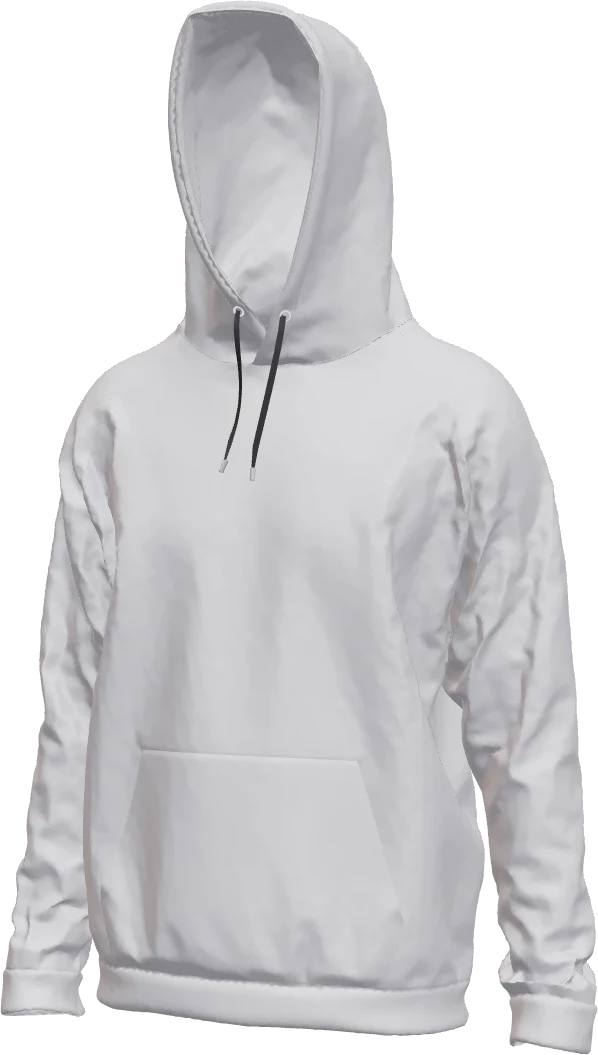
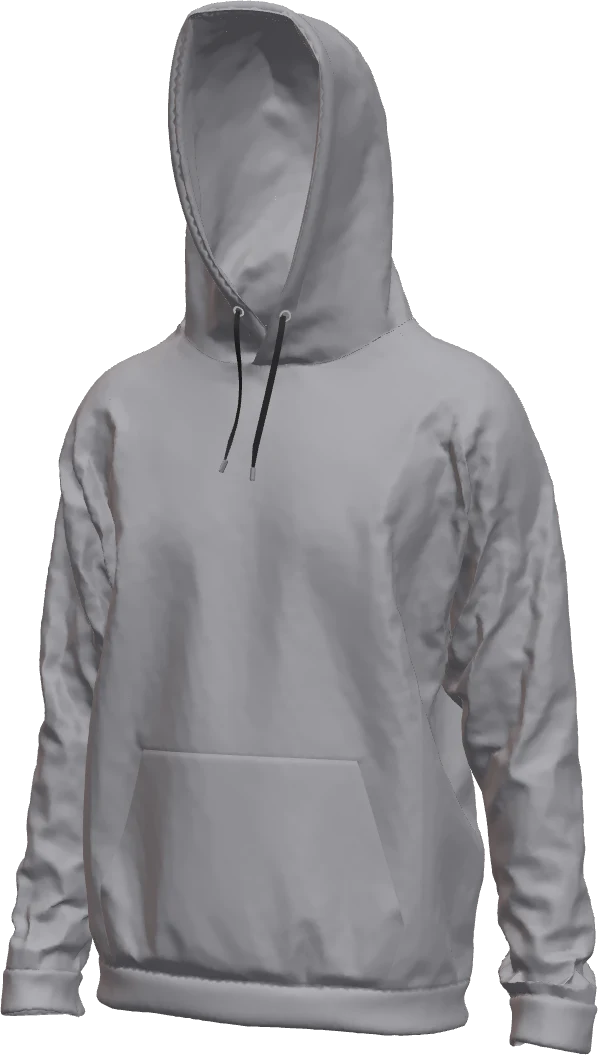
Colección para programadores (15 diseños) y colores reales del proveedor
- 15 diseños hechos con código (SVG → PNG en 3 versiones de tinta) y una sudadera por diseño en el catálogo y en el inicio
- El visor 3D estampa el diseño grande al frente y cambia la versión según el color
- Colores: negro, gris jaspe, rojo, café y azul marino; tono aparte para el 3D (la luz aclara la tela)
- Fotos de catálogo regeneradas

diff --git a/src/data/productos.ts b/src/data/productos.ts
@@ -1,3 +1,4 @@
+import { DISENOS } from "./disenos";
 /**
  * Catálogo. Precios en MXN. `oferta` es el precio con descuento (si no hay, se cobra `precio`).
  * `precio: null` = se cotiza por WhatsApp. Las fotos reales van en /public/productos; mientras no
@@ -9,7 +10,12 @@ export type Zona = "pecho" | "espalda" | "manga";
 export interface Color {
   id: string;
   nombre: string;
+  /** Color real (muestras y textos). */
   hex: string;
+  /** Tono para la sudadera 3D: la luz del visor aclara la tela, así que va más oscuro que el real. */
+  tela: string;
+  /** Versión de los diseños que se ve bien sobre este color. */
+  tinta: "claro" | "oscuro" | "mono";
 }
 
 export interface Producto {
@@ -29,16 +35,19 @@ export interface Producto {
   destacado?: boolean;
   /** Color de la foto de catálogo (id); por defecto el primero. */
   colorFoto?: string;
+  /** Diseño de la colección (id en data/disenos.ts) que va estampado grande al frente. */
+  diseno?: string;
   /** Oculto en la tienda (p. ej. mientras no hay fotos o precio). */
   oculto?: boolean;
 }
 
-const NEUTROS: Color[] = [
-  { id: "negro", nombre: "Negro", hex: "#1b1b1e" },
-  { id: "gris", nombre: "Gris jaspe", hex: "#8e8e93" },
-  { id: "hueso", nombre: "Blanco hueso", hex: "#e9e4da" },
-  { id: "marino", nombre: "Azul marino", hex: "#1e2a45" },
-  { id: "bosque", nombre: "Verde bosque", hex: "#28392e" },
+// Colores reales del proveedor (fotos de Edu, 2026-10-16).
+export const NEUTROS: Color[] = [
+  { id: "negro", nombre: "Negro", hex: "#1b1b1e", tela: "#1b1b1e", tinta: "claro" },
+  { id: "gris", nombre: "Gris jaspe", hex: "#a9a9ad", tela: "#5a5a5e", tinta: "oscuro" },
+  { id: "rojo", nombre: "Rojo", hex: "#c4122f", tela: "#6e0a19", tinta: "mono" },
+  { id: "cafe", nombre: "Café", hex: "#7b4a2b", tela: "#3a2112", tinta: "mono" },
+  { id: "marino", nombre: "Azul marino", hex: "#1c2541", tela: "#10172b", tinta: "claro" },
 ];
 
 const TODOS: Producto[] = [
@@ -67,7 +76,7 @@ const TODOS: Producto[] = [
       "Corte holgado de hombro caído, el favorito para generaciones, equipos y marcas. Espalda amplia para nombres y números grandes.",
     precio: 400,
     oferta: 360,
-    colores: NEUTROS.slice(0, 4),
+    colores: NEUTROS,
     tallas: ["CH", "M", "G", "XG"],
     zonas: ["pecho", "espalda", "manga"],
     colorFoto: "gris",
@@ -83,7 +92,7 @@ const TODOS: Producto[] = [
     descripcion:
       "Playera deportiva ligera que seca rápido. Perfecta para uniformes de equipo, carreras, gimnasios y eventos, con tu logo al frente y nombre o número en la espalda.",
     precio: null,
-    colores: [NEUTROS[0], NEUTROS[2], NEUTROS[3], { id: "rojo", nombre: "Rojo", hex: "#9e1f24" }],
+    colores: [NEUTROS[0], NEUTROS[1], NEUTROS[2], NEUTROS[4]],
     tallas: ["CH", "M", "G", "XG"],
     zonas: ["pecho", "espalda", "manga"],
     detalles: ["Tela ligera de secado rápido", "Cuello redondo", "Ideal para uniformes", "Nombre y número en espalda"],
@@ -92,6 +101,32 @@ const TODOS: Producto[] = [
     oculto: true, // hasta tener fotos reales y precio
   },
 ];
+
+// Colección "para programadores": una sudadera por diseño, mismos colores, tallas y precio que la clásica.
+const COLORES_FOTO = ["negro", "marino", "rojo", "cafe", "gris"];
+for (const [i, d] of DISENOS.entries()) {
+  TODOS.push({
+    slug: `diseno-${d.id}`,
+    nombre: `Sudadera "${d.nombre}"`,
+    tipo: "sudadera",
+    resumen: d.desc,
+    descripcion: `De la colección para programadores: "${d.nombre}" estampado grande al frente. ${d.desc}. Puedes agregar tu nombre en la espalda o un detalle en la manga.`,
+    precio: 400,
+    oferta: 360,
+    colores: NEUTROS,
+    tallas: ["CH", "M", "G", "XG"],
+    zonas: ["espalda", "manga"],
+    detalles: ["Diseño estampado al frente", "Felpa perchada por dentro", "Capucha con cordones", "Bolsa canguro"],
+    paquete: { pesoKg: 0.8, largo: 35, ancho: 30, alto: 8 },
+    colorFoto: COLORES_FOTO[i % COLORES_FOTO.length],
+    diseno: d.id,
+  });
+}
+
+/** Imagen del diseño en la versión que se ve sobre ese color. */
+export function imagenDiseno(id: string, c: Color): string {
+  return `/disenos/${id}-${c.tinta}.png`;
+}
 
 /** Productos visibles en la tienda. */
 export const PRODUCTOS = TODOS.filter((p) => !p.oculto);

diff --git a/src/components/ProductoDetalle.tsx b/src/components/ProductoDetalle.tsx
@@ -2,8 +2,8 @@
 
 import dynamic from "next/dynamic";
 import Link from "next/link";
-import { useState } from "react";
-import { mxn, precioFinal, ZONAS, type Producto, type Zona } from "@/data/productos";
+import { useEffect, useState } from "react";
+import { imagenDiseno, mxn, precioFinal, ZONAS, type Producto, type Zona } from "@/data/productos";
 import { useCarrito } from "@/lib/carrito";
 
 const Visor3D = dynamic(() => import("@/components/Visor3D"), {
@@ -22,6 +22,14 @@ export default function ProductoDetalle({ p }: { p: Producto }) {
   const [logo, setLogo] = useState<HTMLImageElement | null>(null);
   const [aviso, setAviso] = useState<string | null>(null);
   const final = precioFinal(p);
+
+  // Producto de la colección: el diseño va al frente en la versión que se ve sobre el color elegido.
+  useEffect(() => {
+    if (!p.diseno) return;
+    const img = new Image();
+    img.onload = () => setLogo(img);
+    img.src = imagenDiseno(p.diseno, color);
+  }, [p.diseno, color]);
 
   function toggleZona(z: Zona) {
     setZonas((xs) => (xs.includes(z) ? xs.filter((x) => x !== z) : [...xs, z]));
@@ -51,7 +59,7 @@ export default function ProductoDetalle({ p }: { p: Producto }) {
     <div className="mx-auto grid max-w-7xl gap-10 px-4 pb-24 pt-24 sm:px-6 lg:grid-cols-[1.15fr_1fr] lg:pt-28">
       <div className="lg:sticky lg:top-24 lg:self-start">
         <div className="relative aspect-square overflow-hidden rounded-3xl border border-line bg-[radial-gradient(ellipse_at_50%_40%,#26262b_0%,#0b0b0c_70%)]">
-          <Visor3D tipo={p.tipo} color={color.hex} zonas={zonas} logo={logo} enfoque={enfoque} />
+          <Visor3D tipo={p.tipo} color={color.tela} zonas={zonas} logo={logo} enfoque={enfoque} grande={!!p.diseno} />
           <p className="pointer-events-none absolute bottom-4 left-0 right-0 text-center text-xs text-muted">Arrastra para girar</p>
         </div>
       </div>
@@ -115,7 +123,7 @@ export default function ProductoDetalle({ p }: { p: Producto }) {
         </fieldset>
 
         <fieldset className="mt-7">
-          <legend className="text-sm font-medium">¿Dónde va tu grabado?</legend>
+          <legend className="text-sm font-medium">{p.diseno ? "¿Algo más? (opcional)" : "¿Dónde va tu grabado?"}</legend>
           <div className="mt-3 grid gap-2 sm:grid-cols-3">
             {p.zonas.map((z) => {
               const on = zonas.includes(z);
@@ -141,6 +149,7 @@ export default function ProductoDetalle({ p }: { p: Producto }) {
         </fieldset>
 
         <div className="mt-7 grid gap-4 sm:grid-cols-2">
+          {!p.diseno && (
           <label className="block">
             <span className="text-sm font-medium">Prueba tu logo (opcional)</span>
             <input
@@ -151,6 +160,7 @@ export default function ProductoDetalle({ p }: { p: Producto }) {
             />
             <span className="mt-1 block text-xs text-muted">Solo para verlo aquí. El archivo final nos lo mandas por WhatsApp.</span>
           </label>
+          )}
           <label className="block">
             <span className="text-sm font-medium">Nombre, número o indicaciones</span>
             <input

diff --git a/src/app/page.tsx b/src/app/page.tsx
@@ -92,7 +92,7 @@ export default function Inicio() {
           <div className="max-w-2xl rounded-3xl bg-ink/60 p-6 text-center backdrop-blur-md">
             <p className="eyebrow">04 — Color</p>
             <h2 className="display mt-4 text-4xl font-extrabold sm:text-6xl">Cinco colores base. Un solo estilo.</h2>
-            <p className="mt-5 text-bone/75">Negro, gris jaspe, blanco hueso, azul marino y verde bosque. Neutros que combinan con cualquier logo.</p>
+            <p className="mt-5 text-bone/75">Negro, gris jaspe, rojo, café y azul marino. Colores que combinan con cualquier logo o diseño.</p>
           </div>
         </section>
 
@@ -112,6 +112,26 @@ export default function Inicio() {
               {PRODUCTOS.filter((p) => p.destacado).map((p) => (
                 <ProductoCard key={p.slug} p={p} />
               ))}
+            </div>
+          </section>
+
+          <section className="border-t border-line" aria-labelledby="coleccion">
+            <div className="mx-auto max-w-7xl px-4 py-24 sm:px-6">
+              <div className="flex flex-wrap items-end justify-between gap-4">
+                <div>
+                  <p className="eyebrow">Colección</p>
+                  <h2 id="coleccion" className="display mt-3 text-4xl font-extrabold sm:text-5xl">Para programadores</h2>
+                  <p className="mt-4 max-w-xl text-bone/75">15 diseños para quien vive entre código y café. En cualquiera de los 5 colores.</p>
+                </div>
+                <Link href="/catalogo#programadores" className="text-sm text-bone/70 underline-offset-4 hover:text-bone hover:underline">
+                  Ver los 15 →
+                </Link>
+              </div>
+              <div className="mt-10 grid gap-5 sm:grid-cols-2 lg:grid-cols-3">
+                {PRODUCTOS.filter((p) => p.diseno).slice(0, 6).map((p) => (
+                  <ProductoCard key={p.slug} p={p} />
+                ))}
+              </div>
             </div>
           </section>
 

diff --git a/src/data/disenos.ts b/src/data/disenos.ts
@@ -1,0 +1,28 @@
+/**
+ * Diseños de la colección "para programadores". Cada uno tiene 3 versiones en /public/disenos:
+ * <id>-claro.png (prendas oscuras), <id>-oscuro.png (prendas claras) y <id>-mono.png (todo claro, para rojo y café).
+ * Se generan con código (SVG → PNG); para cambiar uno, se edita su SVG y se vuelven a exportar.
+ */
+export interface Diseno {
+  id: string;
+  nombre: string;
+  desc: string;
+}
+
+export const DISENOS: Diseno[] = [
+  { id: "codigo", nombre: "</>", desc: "El símbolo de código, grande y limpio" },
+  { id: "hola-mundo", nombre: "Hola, mundo", desc: "El primer programa de todos" },
+  { id: "mi-maquina", nombre: "Funciona en mi máquina", desc: "La excusa universal" },
+  { id: "push-force", nombre: "git push --force", desc: "Para los valientes" },
+  { id: "todo-dormir", nombre: "// TODO: dormir", desc: "Pendiente desde 2019" },
+  { id: "while-vivo", nombre: "while (vivo)", desc: "while (vivo) { codear(); }" },
+  { id: "404-sueno", nombre: "404 sueño", desc: "Error 404: sueño no encontrado" },
+  { id: "ctrl-c-v", nombre: "Ctrl+C Ctrl+V", desc: "Las dos teclas más usadas" },
+  { id: "cafe-codigo", nombre: "Café → Código", desc: "La función más importante" },
+  { id: "127", nombre: "127.0.0.1", desc: "No hay lugar como el hogar" },
+  { id: "debug", nombre: "Modo debug", desc: "Debug mode: ON" },
+  { id: "binario", nombre: "Binario HOLA", desc: "HOLA escrito en binario" },
+  { id: "full-stack", nombre: "{ Full Stack }", desc: "Del frontend al servidor" },
+  { id: "bug-feature", nombre: "No es bug", desc: "Es una feature" },
+  { id: "commit", nombre: "commit · push · repeat", desc: "El ciclo de la vida" },
+];

diff --git a/src/lib/prenda3d.ts b/src/lib/prenda3d.ts
@@ -115,7 +115,8 @@ async function cargarGLB(url: string): Promise<THREE.Group | null> {
   }
 }
 
-export async function cargarPrenda(tipo: Tipo, color: string): Promise<Prenda> {
+/** opciones.pechoGrande: estampado grande al frente (diseños del catálogo) en vez del logo chico. */
+export async function cargarPrenda(tipo: Tipo, color: string, opciones: { pechoGrande?: boolean } = {}): Promise<Prenda> {
   const modelo = await cargarGLB(MODELOS[tipo]);
   if (!modelo) {
     const h = crearSudadera(color, { tipo });
@@ -164,7 +165,9 @@ export async function cargarPrenda(tipo: Tipo, color: string): Promise<Prenda> {
     return ray.intersectObjects(mallas, false)[0] ?? null;
   };
   const objetivos: Record<Zona, { o: THREE.Vector3; d: THREE.Vector3; tam: number; txt: string }> = {
-    pecho: { o: new THREE.Vector3(0, b.max.y - s.y * 0.47, b.max.z + 1), d: new THREE.Vector3(0, 0, -1), tam: s.x * 0.22, txt: "TU LOGO" },
+    pecho: opciones.pechoGrande
+      ? { o: new THREE.Vector3(0, b.max.y - s.y * 0.49, b.max.z + 1), d: new THREE.Vector3(0, 0, -1), tam: s.x * 0.42, txt: "TU LOGO" }
+      : { o: new THREE.Vector3(0, b.max.y - s.y * 0.47, b.max.z + 1), d: new THREE.Vector3(0, 0, -1), tam: s.x * 0.22, txt: "TU LOGO" },
     espalda: { o: new THREE.Vector3(0, b.max.y - s.y * 0.55, b.min.z - 1), d: new THREE.Vector3(0, 0, 1), tam: s.x * 0.34, txt: "TU NOMBRE" },
     manga: { o: new THREE.Vector3(b.min.x - 1, b.max.y - s.y * 0.42, 0), d: new THREE.Vector3(1, 0, 0), tam: s.x * 0.1, txt: "#" },
   };

diff --git a/src/app/catalogo/page.tsx b/src/app/catalogo/page.tsx
@@ -4,13 +4,14 @@ import { PRODUCTOS } from "@/data/productos";
 
 export const metadata: Metadata = {
   title: "Catálogo",
-  description: "Sudaderas con capucha, oversize y playeras deportivas listas para personalizar con tu logo, nombre o número.",
+  description: "Sudaderas para personalizar con tu logo, nombre o número, y la colección de diseños para programadores.",
   alternates: { canonical: "/catalogo" },
 };
 
 export default function Catalogo() {
   const grupos = [
-    { t: "Sudaderas", items: PRODUCTOS.filter((p) => p.tipo === "sudadera") },
+    { t: "Colección para programadores", items: PRODUCTOS.filter((p) => p.diseno) },
+    { t: "Sudaderas para personalizar", items: PRODUCTOS.filter((p) => p.tipo === "sudadera" && !p.diseno) },
     { t: "Playeras deportivas", items: PRODUCTOS.filter((p) => p.tipo === "playera") },
   ];
   return (
@@ -19,7 +20,7 @@ export default function Catalogo() {
       <h1 className="display mt-3 text-5xl font-extrabold sm:text-6xl">Elige la base. Nosotros la hacemos tuya.</h1>
       {grupos.map((g) =>
         g.items.length ? (
-          <section key={g.t} className="mt-16" aria-labelledby={g.t}>
+          <section key={g.t} id={g.items[0]?.diseno ? "programadores" : undefined} className="mt-16 scroll-mt-24" aria-labelledby={g.t}>
             <h2 id={g.t} className="text-xl font-semibold">{g.t}</h2>
             <div className="mt-6 grid gap-5 sm:grid-cols-2 lg:grid-cols-3">
               {g.items.map((p) => (

diff --git a/src/components/Visor3D.tsx b/src/components/Visor3D.tsx
@@ -9,7 +9,7 @@ import type { Tipo, Zona } from "@/data/productos";
 const GIRO: Record<Zona, number> = { pecho: 0, espalda: Math.PI, manga: Math.PI / 2 };
 
 /** Visor del producto: arrastra para girar, cambia color, muestra zonas elegidas y el logo subido. */
-export default function Visor3D({ tipo, color, zonas, logo, enfoque }: { tipo: Tipo; color: string; zonas: Zona[]; logo: HTMLImageElement | null; enfoque: Zona | null }) {
+export default function Visor3D({ tipo, color, zonas, logo, enfoque, grande = false }: { tipo: Tipo; color: string; zonas: Zona[]; logo: HTMLImageElement | null; enfoque: Zona | null; grande?: boolean }) {
   const ref = useRef<HTMLCanvasElement>(null);
   const prendaRef = useRef<Prenda | null>(null);
   const ctlRef = useRef<OrbitControls | null>(null);
@@ -48,7 +48,7 @@ export default function Visor3D({ tipo, color, zonas, logo, enfoque }: { tipo: T
     ro.observe(canvas);
 
     let vivo = true;
-    cargarPrenda(tipo, props.current.color).then((p) => {
+    cargarPrenda(tipo, props.current.color, { pechoGrande: grande }).then((p) => {
       if (!vivo) return p.dispose();
       prendaRef.current = p;
       scene.add(p.group);
@@ -93,7 +93,7 @@ export default function Visor3D({ tipo, color, zonas, logo, enfoque }: { tipo: T
       prendaRef.current = null;
       renderer.dispose();
     };
-  }, [tipo]);
+  }, [tipo, grande]);
 
   useEffect(() => {
     prendaRef.current?.setLogo(logo);

diff --git a/scripts/fotos.ts b/scripts/fotos.ts
@@ -2,7 +2,7 @@
 // Uso: (cd public && python3 -m http.server 3078) y luego node scripts/fotos.mjs
 import * as THREE from "three";
 import { cargarPrenda, prepararEscena } from "../src/lib/prenda3d";
-import { colorDeFoto, PRODUCTOS } from "../src/data/productos";
+import { colorDeFoto, imagenDiseno, PRODUCTOS } from "../src/data/productos";
 
 const W = 1000, H = 1250;
 const r = new THREE.WebGLRenderer({ antialias: true, alpha: true, preserveDrawingBuffer: true });
@@ -16,8 +16,18 @@ cam.position.set(0, 0.15, 6.1);
 (window as unknown as { fotos: () => Promise<Record<string, string>> }).fotos = async () => {
   const out: Record<string, string> = {};
   for (const p of PRODUCTOS) {
-    const pr = await cargarPrenda(p.tipo, colorDeFoto(p).hex);
+    const c = colorDeFoto(p);
+    const pr = await cargarPrenda(p.tipo, c.tela, { pechoGrande: !!p.diseno });
     pr.group.rotation.y = -0.35;
+    if (p.diseno) {
+      // diseño al frente, sin recuadros de las demás zonas
+      const img = new Image();
+      img.src = imagenDiseno(p.diseno, c);
+      await img.decode();
+      pr.setLogo(img);
+      for (const [z, m] of Object.entries(pr.zonas)) if (m) (m.material as THREE.MeshBasicMaterial).opacity = z === "pecho" ? 1 : 0;
+      pr.group.rotation.y = -0.2;
+    }
     scene.add(pr.group);
     r.render(scene, cam);
     out[p.slug] = r.domElement.toDataURL("image/png");

diff --git a/src/components/EscenaScroll.tsx b/src/components/EscenaScroll.tsx
@@ -5,7 +5,7 @@ import * as THREE from "three";
 import { gsap } from "gsap";
 import { ScrollTrigger } from "gsap/ScrollTrigger";
 import { cargarPrenda, prepararEscena } from "@/lib/prenda3d";
-import type { Zona } from "@/data/productos";
+import { NEUTROS, type Zona } from "@/data/productos";
 
 gsap.registerPlugin(ScrollTrigger);
 
@@ -21,7 +21,7 @@ const POSES: Record<string, { x: number; y: number; ry: number; esc: number; zon
   manga: { x: -1.2, y: 0, ry: Math.PI / 2 + 0.35, esc: 1.0, zona: "manga" },
   colores: { x: 0, y: 0.5, ry: Math.PI * 2 - 0.3, esc: 0.72 },
 };
-const COLORES = ["#1b1b1e", "#8e8e93", "#e9e4da", "#1e2a45", "#28392e", "#1b1b1e"];
+const COLORES = [...NEUTROS.map((c) => c.tela), NEUTROS[0].tela];
 
 export default function EscenaScroll() {
   const canvasRef = useRef<HTMLCanvasElement>(null);
